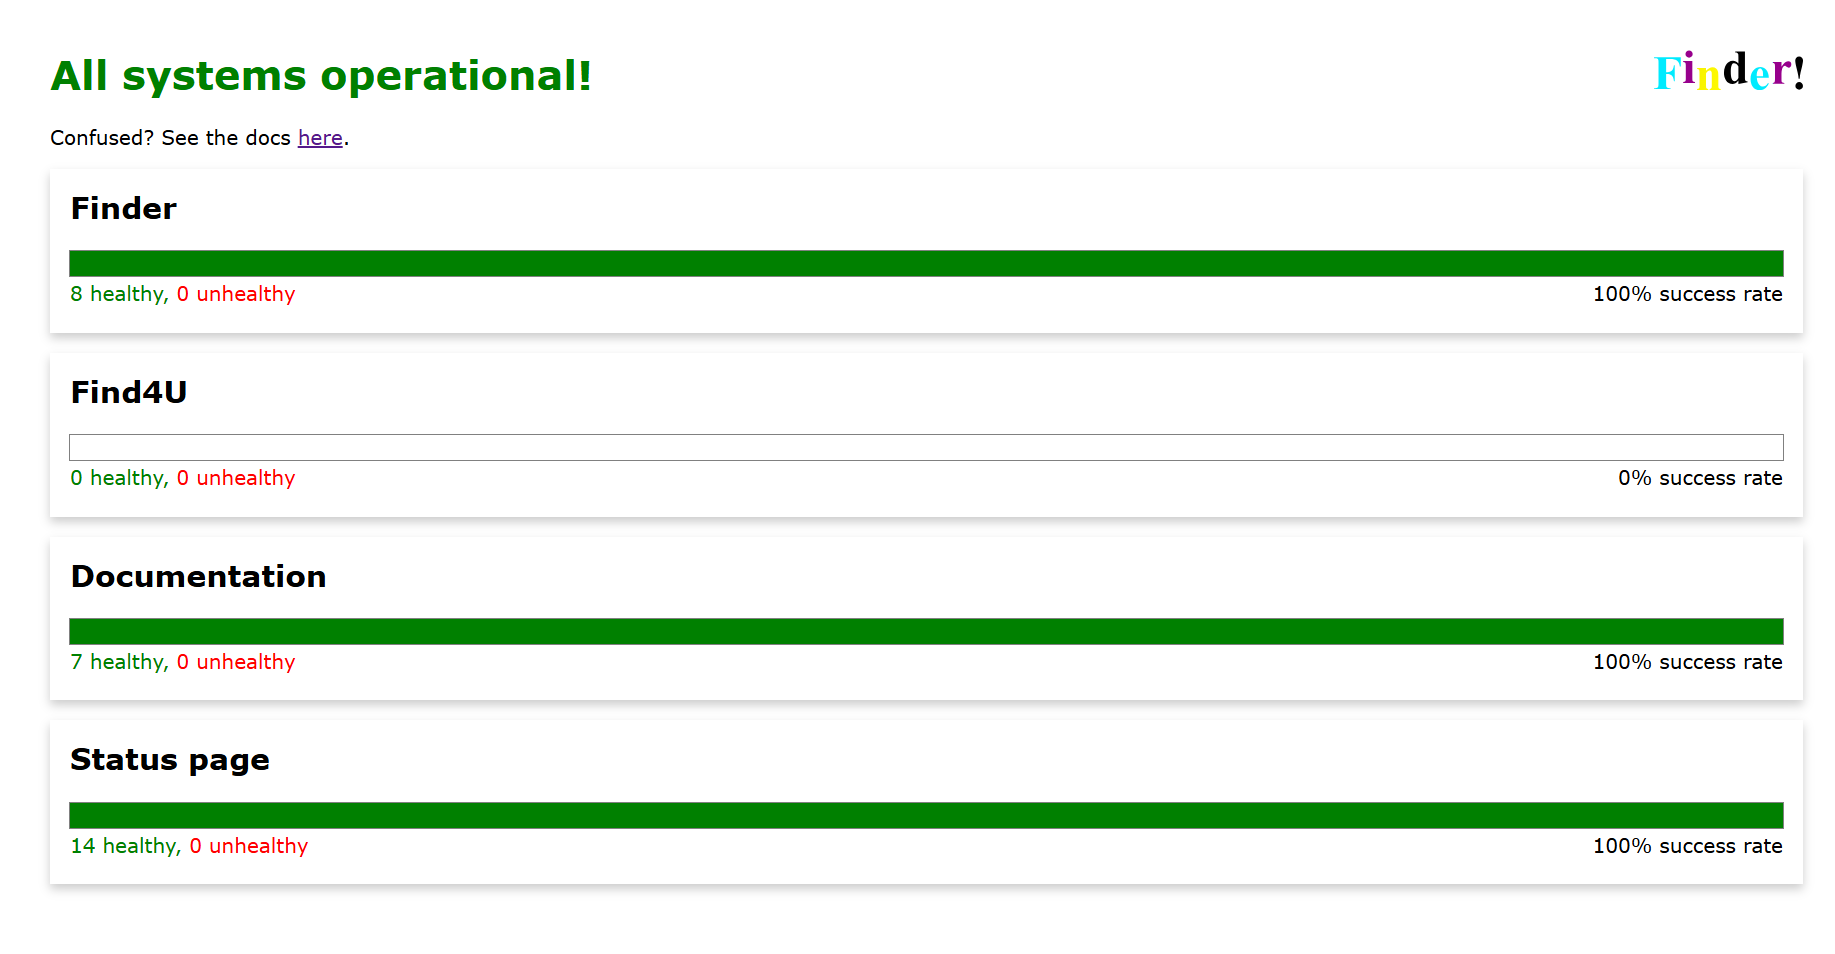
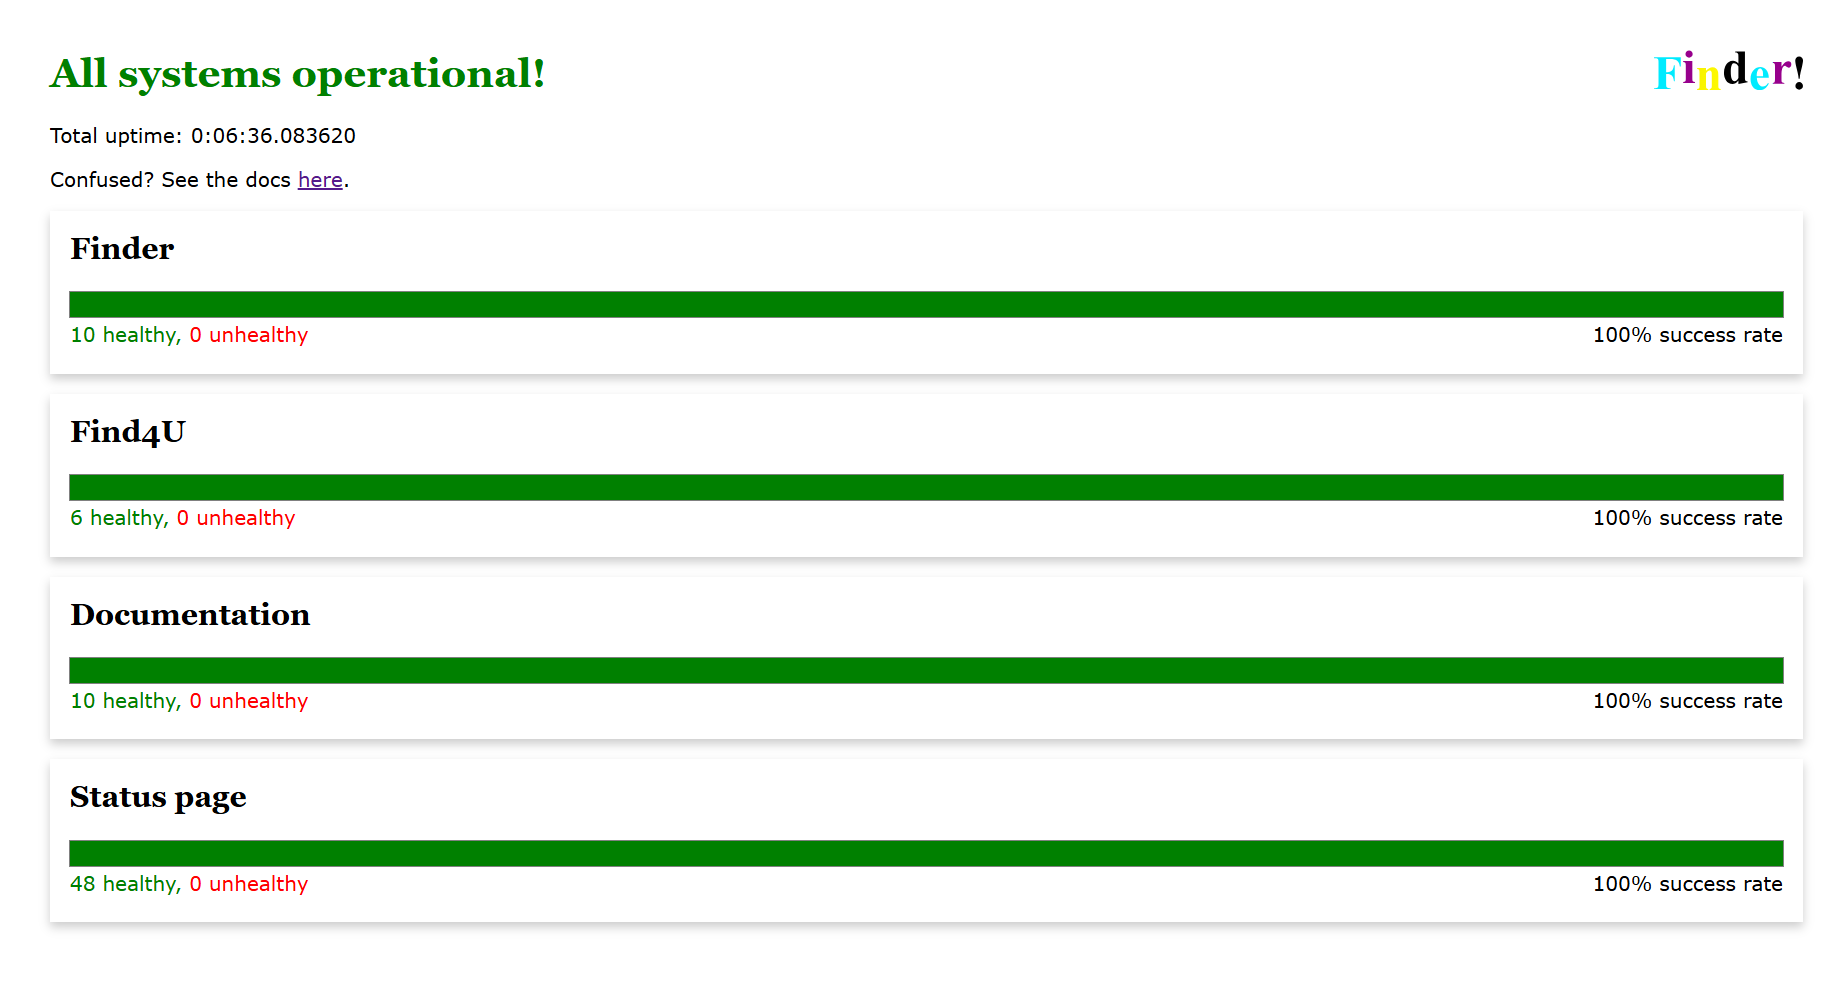
Added uptime clock to status page

Changed region(s): [[0.0311, 0.0608, 0.994, 0.76], [0.0311, 0.7904, 0.994, 0.9423], [0.9008, 0.0608, 0.994, 0.0912]]

diff --git a/status.py b/status.py
@@ -1,10 +1,11 @@
 from flask import Flask, jsonify, render_template_string, Response
-import datetime
+from datetime import datetime
 import textwrap
 
 class Status:    
     def __init__(self, history_limit=100):
         self.services = {}
+        self.start_time = datetime.utcnow()
         self.history_limit = history_limit
     
     def add_service(self, name):
@@ -30,7 +31,7 @@ class Status:
             reqs = [r for lst in self.services.values() for r in lst]
         return (sum(reqs) / len(reqs)) if reqs else None
 
-    def summary(self):
+    def service_summary(self):
         return {
             name: {
                 "checks": len(results),
@@ -39,6 +40,16 @@ class Status:
                 "success_rate": (sum(results) / len(results)) if results else None
             }
             for name, results in self.services.items()
+        }
+        
+    def uptime(self): return datetime.utcnow() - self.start_time
+    
+    def json(self):
+        return {
+            "timestamp": datetime.utcnow().isoformat(),
+            "success_rate": self.success_rate(),
+            "uptime": self.uptime().total_seconds(),
+            "services": self.service_summary()
         }
 
 def create_app(status):
@@ -57,11 +68,7 @@ def create_app(status):
 
     @app.route("/status/api")
     def status_json():
-        return jsonify({
-            "timestamp": datetime.datetime.utcnow().isoformat(),
-            "services": status.summary(),
-            "overall_success_rate": status.success_rate()
-        })
+        return jsonify(status.json())
         
     @app.route("/status/styleguide.css")
     def styleguide():
@@ -70,7 +77,7 @@ def create_app(status):
 
     @app.route("/status")
     def status_html():
-        summary = status.summary()
+        summary = status.service_summary()
         headline_class, headline_text = headline_class_and_text()
         html = textwrap.dedent("""\
         <!DOCTYPE html>
@@ -177,6 +184,11 @@ def create_app(status):
         <h1 class="{{headline_class}}">{{headline_text}} <a class="home" href="/"><img src="/static/logo.svg"></a></h1>
         
         <p>Confused? See the docs <a href="/docs/user/status.html">here</a>.</p>
+        <hr>
+        <p><strong>Total uptime:</strong> 
+          <span id="uptime"></span>
+          <noscript>{{uptime}}</noscript>
+        </p>
 
         {% for name, data in summary.items() %}
         <p><div class="card">
@@ -196,11 +208,31 @@ def create_app(status):
              </span></p>
         </div></p>
         {% endfor %}
+        
+        <script>
+        let uptimeSeconds = /* server-rendered */ {{uptime.total_seconds() | round}};
+
+        function formatUptime(seconds) {
+          let hours = Math.floor(seconds / 3600);
+          let minutes = Math.floor((seconds % 3600) / 60);
+          let secs = seconds % 60;
+          return `${hours}h ${minutes}m ${secs}s`;
+        }
+
+        function tick() {
+          document.getElementById("uptime").textContent = formatUptime(uptimeSeconds);
+          uptimeSeconds++;
+        }
+
+        setInterval(tick, 1000);
+        tick(); // initial render
+        </script>
 
         </body>
         </html>""")
         return render_template_string(html, summary=summary, 
                                       limit=status.history_limit,
+                                      uptime=status.uptime(),
                                       headline_class=headline_class,
                                       headline_text=headline_text)
 
